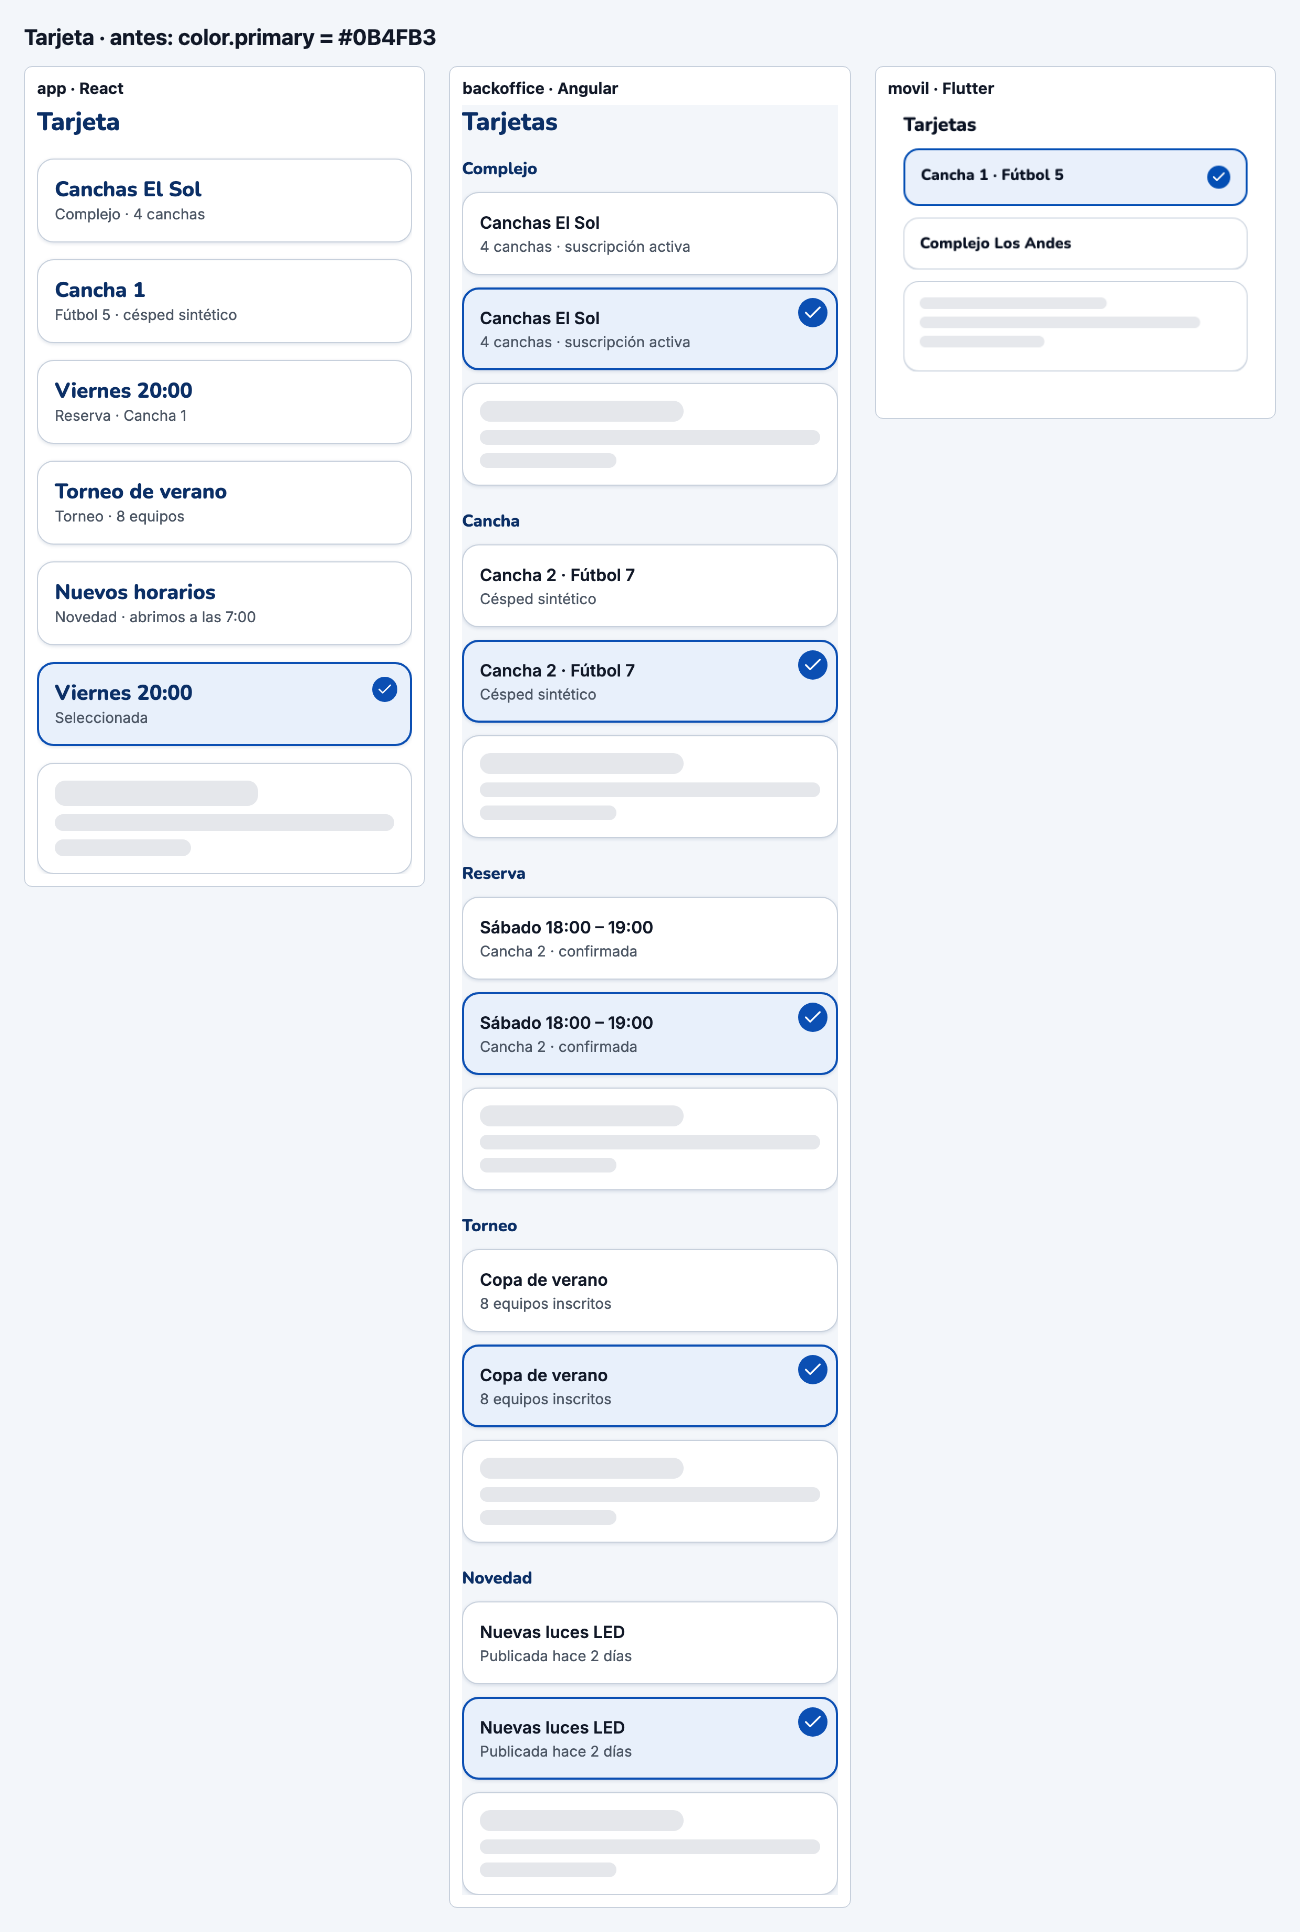
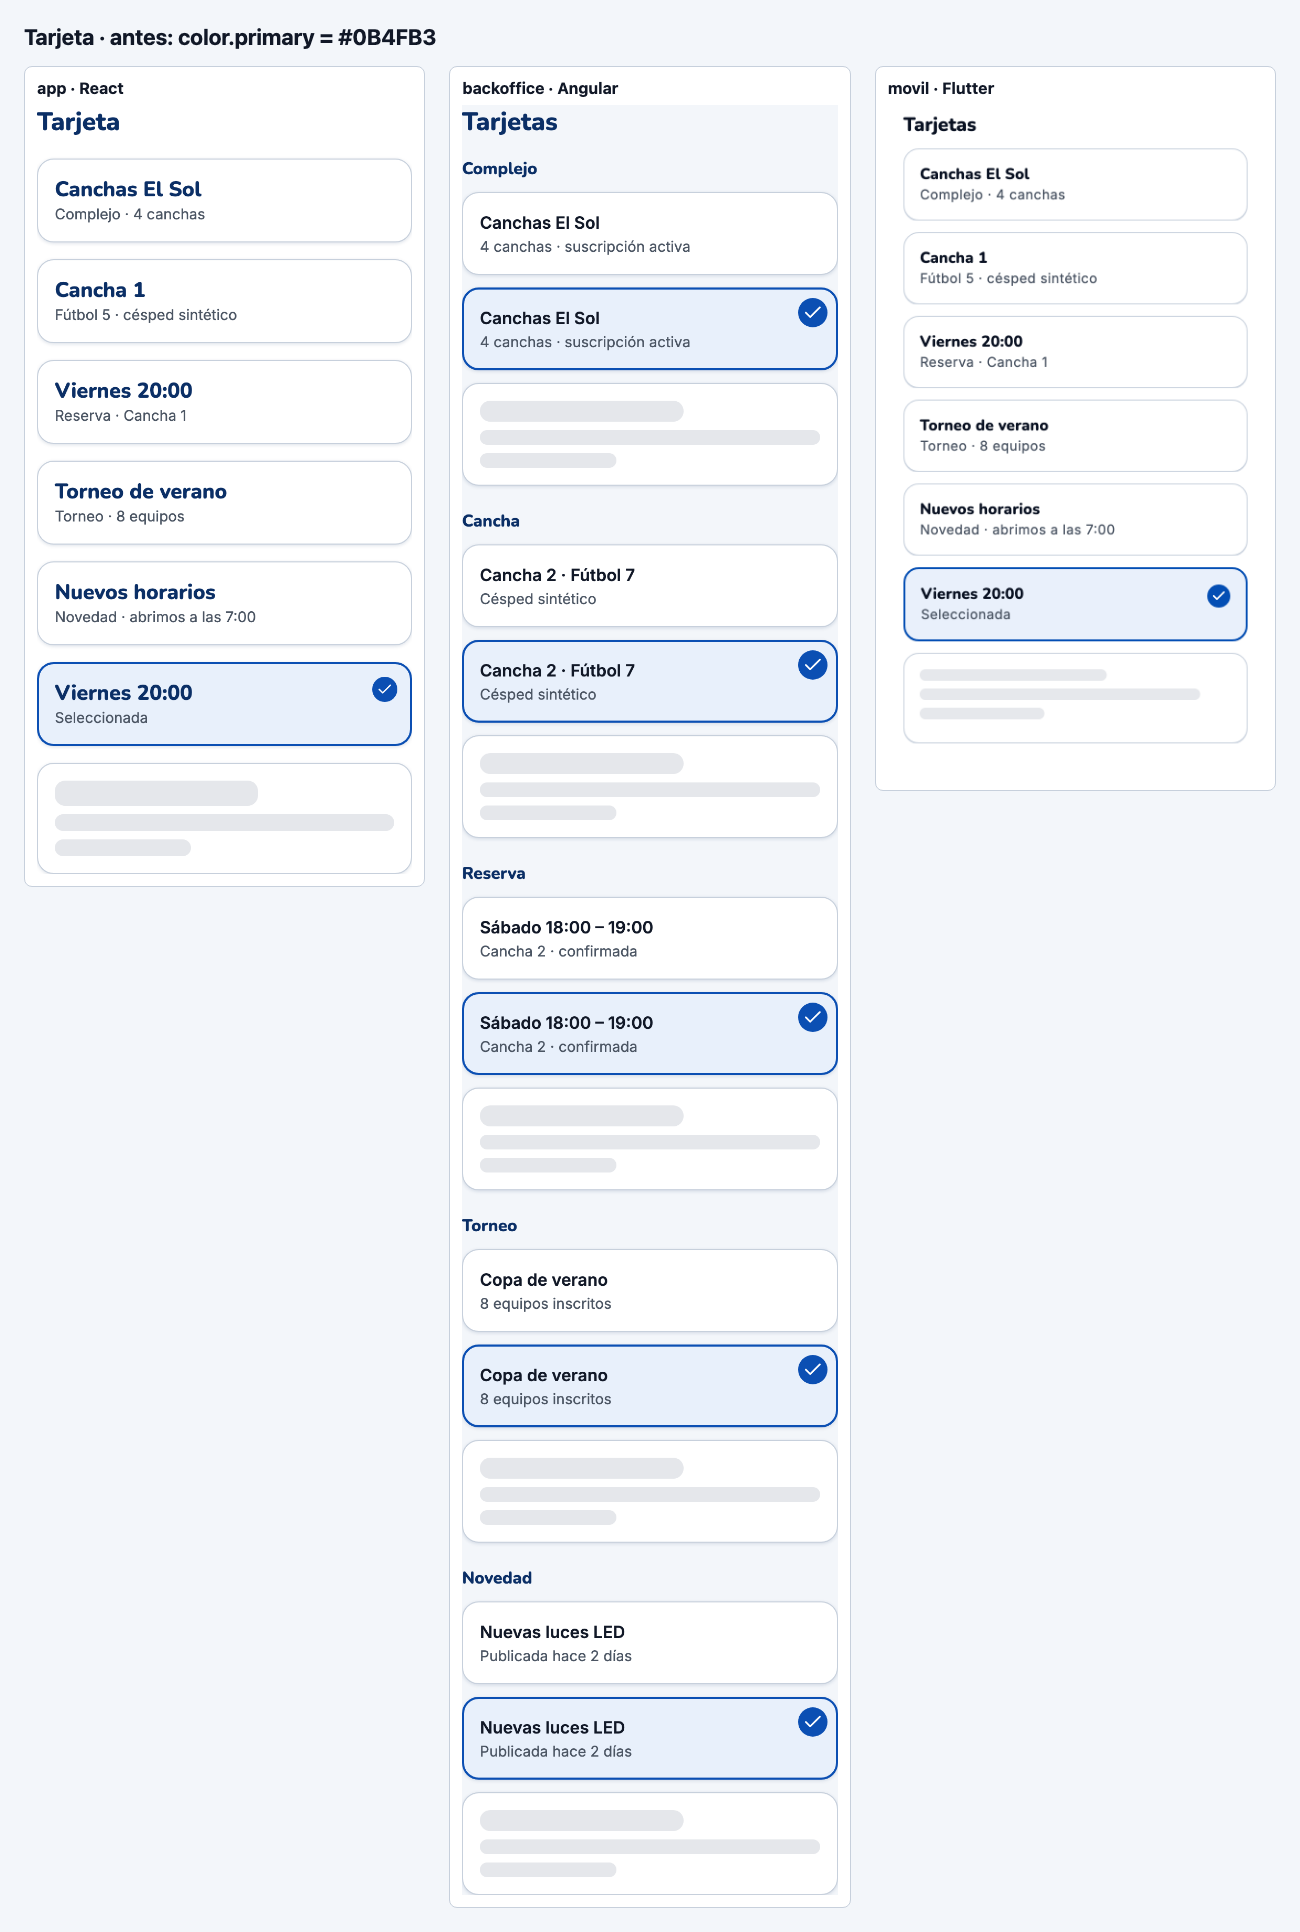
PLATODO-24: complete movil catalog states and static reduced-motion spinner
The movil design catalog now shows every button variant in normal, loading
and disabled states and the five card variants plus selected and loading,
matching the web catalogs. With reduced motion the loading spinner stops as a
three-quarter arc like the web LoaderCircle. Recaptured the parity and token
change evidence.

Changed region(s): [[0.7077, 0.0621, 0.9231, 0.3416], [0.9231, 0.2795, 0.9538, 0.3416], [0.9231, 0.0621, 0.9538, 0.1242]]

diff --git a/movil/lib/features/design_catalog/design_catalog_screen.dart b/movil/lib/features/design_catalog/design_catalog_screen.dart
@@ -46,6 +46,41 @@ class _DesignCatalogScreenState extends State<DesignCatalogScreen> {
     CalendarDay(date: '2026-12-05', slots: []),
   ];
 
+  static const List<_ButtonSample> _buttonSamples = [
+    _ButtonSample(
+      name: 'Primario',
+      label: 'Reservar cancha',
+      variant: AppButtonVariant.primary,
+    ),
+    _ButtonSample(
+      name: 'Secundario',
+      label: 'Ver horarios',
+      variant: AppButtonVariant.secondary,
+      leadingIcon: AppIcons.clock,
+    ),
+    _ButtonSample(
+      name: 'Peligro',
+      label: 'Cancelar reserva',
+      variant: AppButtonVariant.danger,
+    ),
+    _ButtonSample(
+      name: 'Texto',
+      label: 'Ver detalle',
+      variant: AppButtonVariant.text,
+    ),
+  ];
+
+  static const List<_CardSample> _cardSamples = [
+    _CardSample(title: 'Canchas El Sol', detail: 'Complejo · 4 canchas'),
+    _CardSample(title: 'Cancha 1', detail: 'Fútbol 5 · césped sintético'),
+    _CardSample(title: 'Viernes 20:00', detail: 'Reserva · Cancha 1'),
+    _CardSample(title: 'Torneo de verano', detail: 'Torneo · 8 equipos'),
+    _CardSample(
+      title: 'Nuevos horarios',
+      detail: 'Novedad · abrimos a las 7:00',
+    ),
+  ];
+
   String? _sport;
   bool _isCardSelected = true;
   SlotSelection? _calendarSelection = const SlotSelection(
@@ -57,7 +92,6 @@ class _DesignCatalogScreenState extends State<DesignCatalogScreen> {
 
   @override
   Widget build(BuildContext context) {
-    final textTheme = Theme.of(context).textTheme;
     return Scaffold(
       appBar: AppBar(title: const Text('Catálogo de diseño')),
       body: SafeArea(
@@ -67,34 +101,26 @@ class _DesignCatalogScreenState extends State<DesignCatalogScreen> {
             _Section(
               title: 'Botones',
               children: [
-                AppButton(label: 'Reservar cancha', onPressed: _noop),
-                AppButton(
-                  label: 'Ver horarios',
-                  variant: AppButtonVariant.secondary,
-                  leadingIcon: AppIcons.clock,
-                  onPressed: _noop,
-                ),
-                AppButton(
-                  label: 'Cancelar reserva',
-                  variant: AppButtonVariant.danger,
-                  onPressed: _noop,
-                ),
-                AppButton(
-                  label: 'Ver más',
-                  variant: AppButtonVariant.text,
-                  onPressed: _noop,
-                ),
-                const AppButton(label: 'Reservar cancha', onPressed: null),
-                const AppButton(
-                  label: 'Ver horarios',
-                  variant: AppButtonVariant.secondary,
-                  onPressed: null,
-                ),
-                AppButton(
-                  label: 'Guardar cambios',
-                  isLoading: true,
-                  onPressed: _noop,
-                ),
+                for (final sample in _buttonSamples) ...[
+                  _StateLabel(sample.name),
+                  AppButton(
+                    label: sample.label,
+                    variant: sample.variant,
+                    leadingIcon: sample.leadingIcon,
+                    onPressed: _noop,
+                  ),
+                  AppButton(
+                    label: sample.label,
+                    variant: sample.variant,
+                    isLoading: true,
+                    onPressed: _noop,
+                  ),
+                  AppButton(
+                    label: sample.label,
+                    variant: sample.variant,
+                    onPressed: null,
+                  ),
+                ],
               ],
             ),
             _Section(
@@ -132,20 +158,21 @@ class _DesignCatalogScreenState extends State<DesignCatalogScreen> {
             _Section(
               title: 'Tarjetas',
               children: [
+                for (final sample in _cardSamples)
+                  AppCard(
+                    child: _CardContent(
+                      title: sample.title,
+                      detail: sample.detail,
+                    ),
+                  ),
                 AppCard(
-                  semanticLabel: 'Cancha 1, fútbol 5',
+                  semanticLabel: 'Viernes 20:00, reserva en Cancha 1',
                   selected: _isCardSelected,
                   onTap: () =>
                       setState(() => _isCardSelected = !_isCardSelected),
-                  child: Text(
-                    'Cancha 1 · Fútbol 5',
-                    style: textTheme.titleMedium,
-                  ),
-                ),
-                AppCard(
-                  child: Text(
-                    'Complejo Los Andes',
-                    style: textTheme.titleMedium,
+                  child: const _CardContent(
+                    title: 'Viernes 20:00',
+                    detail: 'Seleccionada',
                   ),
                 ),
                 const AppCard(isLoading: true, child: SizedBox.shrink()),
@@ -231,6 +258,63 @@ class _Section extends StatelessWidget {
             ),
         ],
       ),
+    );
+  }
+}
+
+class _ButtonSample {
+  const _ButtonSample({
+    required this.name,
+    required this.label,
+    required this.variant,
+    this.leadingIcon,
+  });
+
+  final String name;
+  final String label;
+  final AppButtonVariant variant;
+  final AppIcons? leadingIcon;
+}
+
+/// One card per domain variant (complex, court, booking, tournament, news).
+class _CardSample {
+  const _CardSample({required this.title, required this.detail});
+
+  final String title;
+  final String detail;
+}
+
+class _StateLabel extends StatelessWidget {
+  const _StateLabel(this.text);
+
+  final String text;
+
+  @override
+  Widget build(BuildContext context) {
+    return Text(text, style: Theme.of(context).textTheme.titleSmall);
+  }
+}
+
+class _CardContent extends StatelessWidget {
+  const _CardContent({required this.title, required this.detail});
+
+  final String title;
+  final String detail;
+
+  @override
+  Widget build(BuildContext context) {
+    final textTheme = Theme.of(context).textTheme;
+    return Column(
+      crossAxisAlignment: CrossAxisAlignment.start,
+      children: [
+        Text(title, style: textTheme.titleMedium),
+        Text(
+          detail,
+          style: textTheme.bodySmall?.copyWith(
+            color: Theme.of(context).colorScheme.onSurfaceVariant,
+          ),
+        ),
+      ],
     );
   }
 }

diff --git a/movil/test/features/design_catalog/design_catalog_screen_test.dart b/movil/test/features/design_catalog/design_catalog_screen_test.dart
@@ -1,6 +1,7 @@
 import 'package:flutter_test/flutter_test.dart';
 import 'package:material_ui/material_ui.dart';
 import 'package:playtodoo/app/app_routes.dart';
+import 'package:playtodoo/core/design/app_theme.dart';
 import 'package:playtodoo/features/design_catalog/design_catalog_screen.dart';
 import 'package:playtodoo/main.dart';
 import 'package:playtodoo/shared/ui/app_button.dart';
@@ -27,6 +28,49 @@ void main() {
 
     expect(find.text('Ver catálogo de diseño'), findsNothing);
   });
+
+  testWidgets(
+    'shows every button variant in normal, loading and disabled states, '
+    'and every card variant plus selected and loading, like the web catalogs',
+    (tester) async {
+      tester.view.physicalSize = const Size(390, 6000);
+      tester.view.devicePixelRatio = 1;
+      addTearDown(tester.view.reset);
+      await tester.pumpWidget(
+        MaterialApp(theme: AppTheme.light(), home: const DesignCatalogScreen()),
+      );
+
+      for (final variant in AppButtonVariant.values) {
+        final buttons = tester
+            .widgetList<AppButton>(find.byType(AppButton, skipOffstage: false))
+            .where((button) => button.variant == variant)
+            // The calendar error state adds its own «Reintentar» button.
+            .where((button) => button.label != 'Reintentar');
+        expect(
+          buttons.where((b) => !b.isLoading && b.onPressed != null),
+          hasLength(1),
+          reason: '$variant normal',
+        );
+        expect(
+          buttons.where((b) => b.isLoading),
+          hasLength(1),
+          reason: '$variant loading',
+        );
+        expect(
+          buttons.where((b) => b.onPressed == null),
+          hasLength(1),
+          reason: '$variant disabled',
+        );
+      }
+
+      final cards = tester.widgetList<AppCard>(
+        find.byType(AppCard, skipOffstage: false),
+      );
+      expect(cards.where((c) => !c.selected && !c.isLoading), hasLength(5));
+      expect(cards.where((c) => c.selected), hasLength(1));
+      expect(cards.where((c) => c.isLoading), hasLength(1));
+    },
+  );
 
   testWidgets('debug build: opens the catalog with every component', (
     tester,

diff --git a/movil/test/shared/ui/app_button_test.dart b/movil/test/shared/ui/app_button_test.dart
@@ -129,6 +129,33 @@ void main() {
     handle.dispose();
   });
 
+  testWidgets('loading with reduced motion: static three-quarter arc', (
+    tester,
+  ) async {
+    await pumpThemed(
+      tester,
+      AppButton(label: label, isLoading: true, onPressed: () {}),
+      disableAnimations: true,
+    );
+
+    final spinner = tester.widget<CircularProgressIndicator>(
+      find.byType(CircularProgressIndicator),
+    );
+    expect(spinner.value, AppButton.reducedMotionSpinnerValue);
+  });
+
+  testWidgets('loading with motion: spinning indicator', (tester) async {
+    await pumpThemed(
+      tester,
+      AppButton(label: label, isLoading: true, onPressed: () {}),
+    );
+
+    final spinner = tester.widget<CircularProgressIndicator>(
+      find.byType(CircularProgressIndicator),
+    );
+    expect(spinner.value, isNull);
+  });
+
   testWidgets('shows the focus ring only with keyboard focus', (tester) async {
     FocusManager.instance.highlightStrategy =
         FocusHighlightStrategy.alwaysTraditional;

diff --git a/movil/lib/shared/ui/app_button.dart b/movil/lib/shared/ui/app_button.dart
@@ -26,6 +26,10 @@ class AppButton extends StatelessWidget {
 
   static const String defaultLoadingLabel = 'Guardando…';
 
+  /// With reduced motion the spinner stops as a three-quarter arc, like the
+  /// web `LoaderCircle` icon.
+  static const double reducedMotionSpinnerValue = 0.75;
+
   final String label;
   final VoidCallback? onPressed;
   final AppButtonVariant variant;
@@ -137,6 +141,9 @@ class _ButtonContent extends StatelessWidget {
         ? SizedBox.square(
             dimension: _indicatorSize,
             child: CircularProgressIndicator(
+              value: MediaQuery.disableAnimationsOf(context)
+                  ? AppButton.reducedMotionSpinnerValue
+                  : null,
               strokeWidth: AppTokens.borderWidthLg,
               color: foreground,
             ),

diff --git a/design-system/docs/components/button.md b/design-system/docs/components/button.md
@@ -83,12 +83,12 @@ const AppButton(label: 'Guardar cambios', onPressed: null); // deshabilitado
 | `disabled` | `onPressed: null` (Semantics `enabled: false`, fuera del recorrido de foco) |
 | `press` | `onPressed` |
 
-- **Cargando:** el botón de Material queda deshabilitado (ignora toques y sale del recorrido de foco), pero conserva los colores de su variante, como en web; se muestra un `CircularProgressIndicator` con `loadingLabel` y el cambio se anuncia como región viva de Semantics.
+- **Cargando:** el botón de Material queda deshabilitado (ignora toques y sale del recorrido de foco), pero conserva los colores de su variante, como en web; se muestra un `CircularProgressIndicator` con `loadingLabel` y el cambio se anuncia como región viva de Semantics. Con movimiento reducido (`MediaQuery.disableAnimations`) el indicador queda quieto como un arco de tres cuartos (`AppButton.reducedMotionSpinnerValue`), igual que el icono `LoaderCircle` de web.
 - **Foco:** `AppFocusRing` (anillo `color-focus` de `border-focus-ring`, separado `border-focus-offset`, con halo `color-focus-halo`), solo con foco de teclado (`FocusHighlightMode.traditional`, equivalente a `:focus-visible`).
 - **Tamaño táctil:** `minimumSize` de `size-touch-min` (44 × 44) y `MaterialTapTargetSize.padded`.
 - **Pendientes ([POR DEFINIR]):** el pulsado del secundario usa `color-primary-tint` y el de peligro mantiene `color-danger` (más el ripple), hasta que la identidad defina esos tonos.
 - **Pruebas:** `movil/test/shared/ui/app_button_test.dart` (cada variante: 44 × 44, `androidTapTargetGuideline`, `iOSTapTargetGuideline`, `labeledTapTargetGuideline`, `textContrastGuideline`; deshabilitado; cargando; anillo de foco).
-- **Catálogo:** `flutter run` en `movil/` y «Ver catálogo de diseño» en la pantalla de inicio, o `flutter run --route /design-catalog` (solo en depuración).
+- **Catálogo:** `flutter run` en `movil/` y «Ver catálogo de diseño» en la pantalla de inicio, o `flutter run --route /design-catalog` (solo en depuración). Muestra cada variante en normal, cargando y deshabilitado, como los catálogos web.
 
 ## Angular (`backoffice`)
 

diff --git a/odd/tasks/platodo-15-identidad-visual.md b/odd/tasks/platodo-15-identidad-visual.md
@@ -36,7 +36,9 @@
 - PLATODO-24: dos desvíos de paridad corregidos en `movil`:
   - `AppButton` en «cargando» se veía gris, como deshabilitado. Ahora conserva los colores de su variante, como en `app` y `backoffice`.
   - El check de `AppCard` seleccionada ahora va sobre un círculo `color-primary`, igual que en web.
-  Los dos cambios tienen pruebas nuevas.
+  - Con movimiento reducido, el indicador de «cargando» queda quieto como un arco de tres cuartos, igual que el icono de web (antes se congelaba como un arco mínimo).
+  - El catálogo de `movil` muestra ahora los mismos estados que los de web: cada variante de botón en normal, cargando y deshabilitado, y las cinco variantes de tarjeta más seleccionada y cargando (devolución de QA).
+  Todos los cambios tienen pruebas nuevas.
 - PLATODO-24: documentación final de los cuatro componentes (uso, propiedades, estados, ejemplos por pieza y tabla completa de diferencias aceptadas por plataforma con su motivo).
 
 ### Verificado
@@ -81,6 +83,6 @@ Los criterios 3 a 12 los verificaron sus tareas: PLATODO-18 a 23, con capturas e
   - `design-system`: `npm run tokens:check` sin diferencias; `npm test` pasa (pruebas y contraste).
   - `app`: `pnpm lint` sin avisos; `pnpm build` correcto; `pnpm test` 132/132.
   - `backoffice`: `npx prettier --check src` correcto; `npm run build` correcto; `npm test -- --watch=false` 95/95.
-  - `movil`: `flutter analyze` sin problemas; `flutter test` 87/87 (83 antes, más 4 nuevas de paridad).
+  - `movil`: `flutter analyze` sin problemas; `flutter test` 90/90 (83 antes, más 7 nuevas de paridad).
 - CI de `develop` en verde para `design-system`, `app`, `backoffice` y `movil` en los merges de PLATODO-19 a 23. La del PR de PLATODO-24 queda enlazada en el PR.
 - Capturas de las tareas anteriores: `docs/evidence/platodo-18`, `platodo-19`, `platodo-20`, `platodo-21`, `docs/screenshots/platodo-22`, `platodo-23`.
